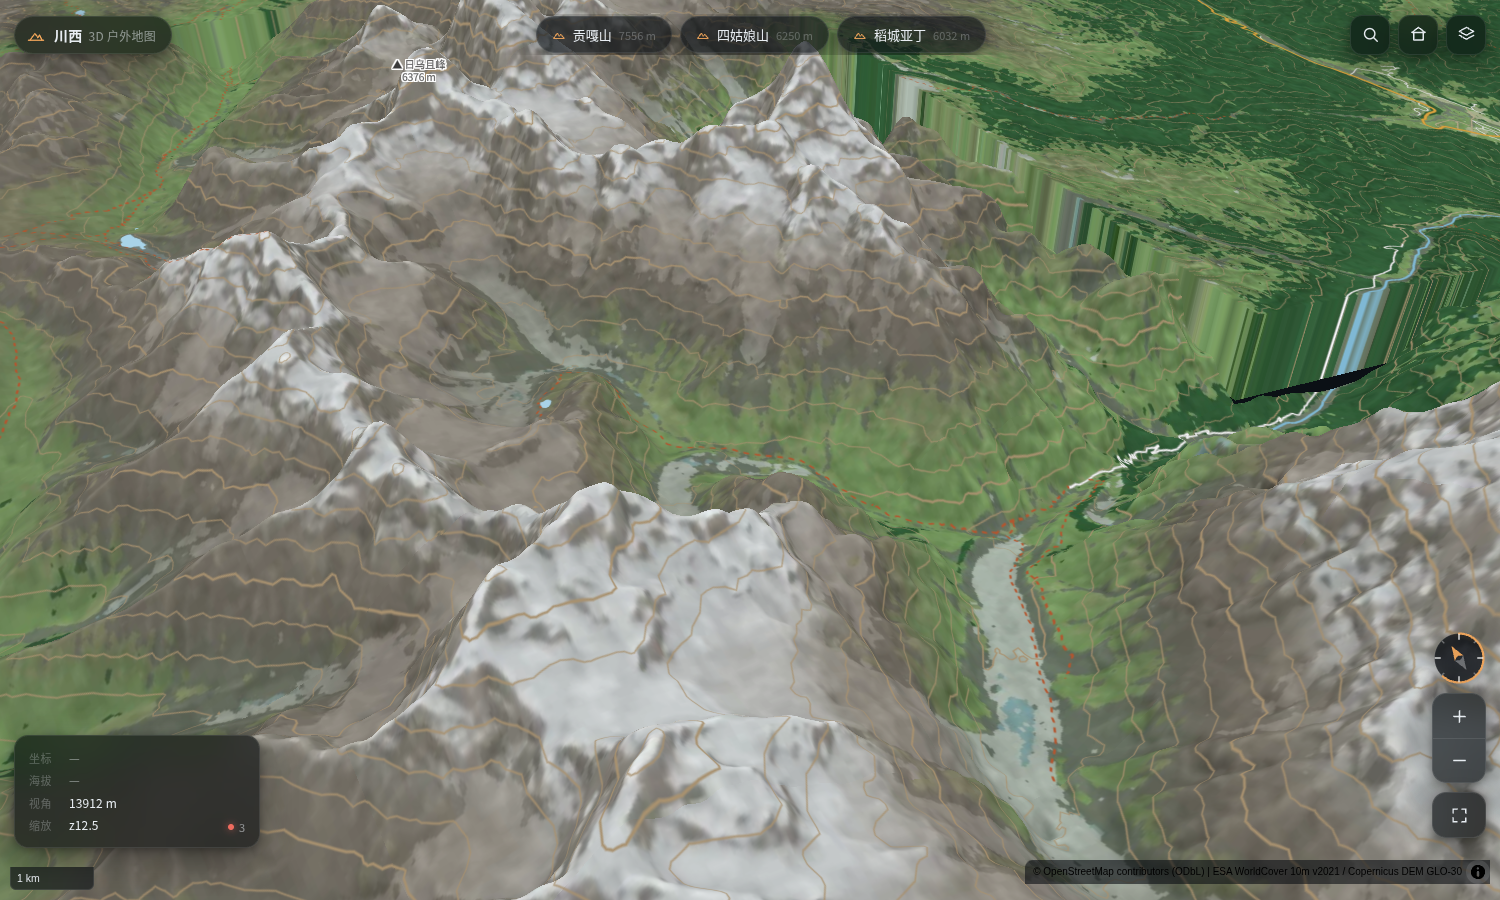
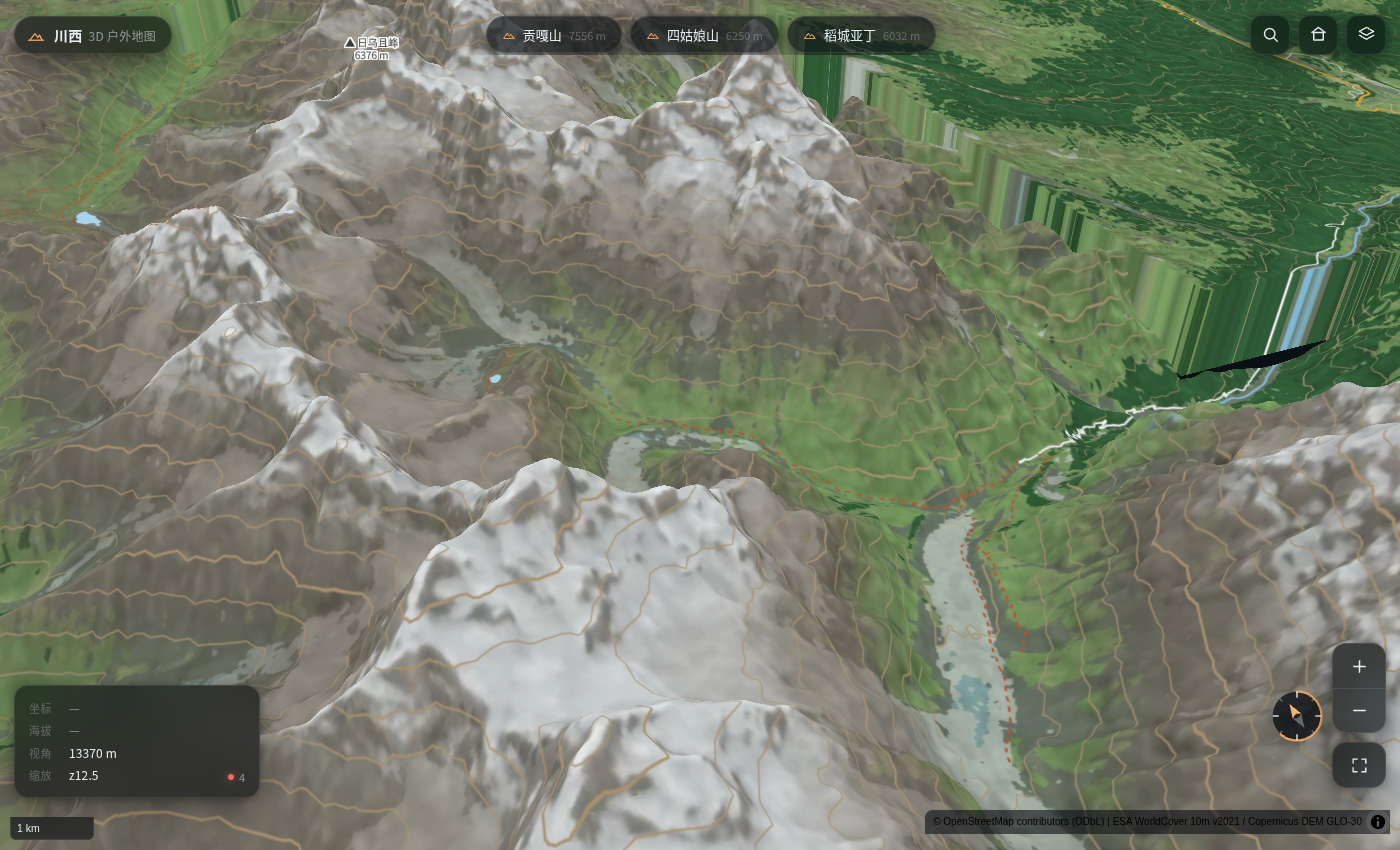
视角旋钮移到缩放按钮左侧，读数气泡挂在旋钮上

diff --git a/src/ui/ui.css b/src/ui/ui.css
@@ -935,8 +935,13 @@ kbd {
   bottom: 62px;
   z-index: 16;
   display: flex;
-  flex-direction: column;
+  flex-direction: row;
   align-items: center;
+  gap: 9px;
+}
+.ctrl-column {
+  display: flex;
+  flex-direction: column;
   gap: 9px;
 }
 
@@ -1013,8 +1018,8 @@ kbd {
 
 .knob-readout {
   position: absolute;
-  right: 62px;
-  top: 10px;
+  right: calc(100% + 12px);
+  top: 50%;
   padding: 5px 9px;
   border-radius: 8px;
   background: var(--panel-solid);
@@ -1025,13 +1030,13 @@ kbd {
   white-space: nowrap;
   font-variant-numeric: tabular-nums;
   opacity: 0;
-  transform: translateX(6px);
+  transform: translateY(-50%) translateX(6px);
   transition: opacity 0.15s var(--ease), transform 0.15s var(--ease);
   pointer-events: none;
 }
 .knob-readout.on {
   opacity: 1;
-  transform: none;
+  transform: translateY(-50%);
 }
 
 .ctrl-stack {
@@ -1096,7 +1101,8 @@ body.alt-rotating .maplibregl-canvas {
     height: 38px;
   }
   .knob-readout {
-    right: 54px;
+    right: calc(100% + 8px);
+    font-size: 10px;
   }
 }
 

diff --git a/src/ui/viewknob.ts b/src/ui/viewknob.ts
@@ -83,7 +83,11 @@ export function installViewControls(map: maplibregl.Map) {
   });
   fullBox.append(fs);
 
-  cluster.append(knob, readout, zoomBox, fullBox);
+  knob.append(readout);
+  const column = document.createElement('div');
+  column.className = 'ctrl-column';
+  column.append(zoomBox, fullBox);
+  cluster.append(knob, column);
   document.body.append(cluster);
 
   // ── 状态同步 ──────────────────────────────────────────────

diff --git a/NOTES.md b/NOTES.md
@@ -302,7 +302,8 @@ MapLibre 自带的 `NavigationControl` 又小又偏，换成 `src/ui/viewknob.ts
 - 横向拖 = 转方位角（0.42°/px），纵向拖 = 调俯角（0.36°/px）
 - **单击 = 回正**（正北 + 水平）；拖动时旁边浮出「东北 27° · 俯角 14°」
 - 聚焦后方向键微调（Shift 加速），Enter/空格回正
-- 下面接同宽的 +/− 缩放和全屏，整列统一 52px，不再七扭八歪
+- 旋钮放在 +/− 缩放**左侧**（同一行，垂直居中），全屏在其下；整列统一 52px
+- 读数气泡改为挂在旋钮上、向左浮出，不再压在按钮上
 - 比例尺从左下挪回来（右下让给旋钮）；窄屏下直接隐藏比例尺，免得和两行署名打架
 
 ### 拖动绑定（关键坑）
